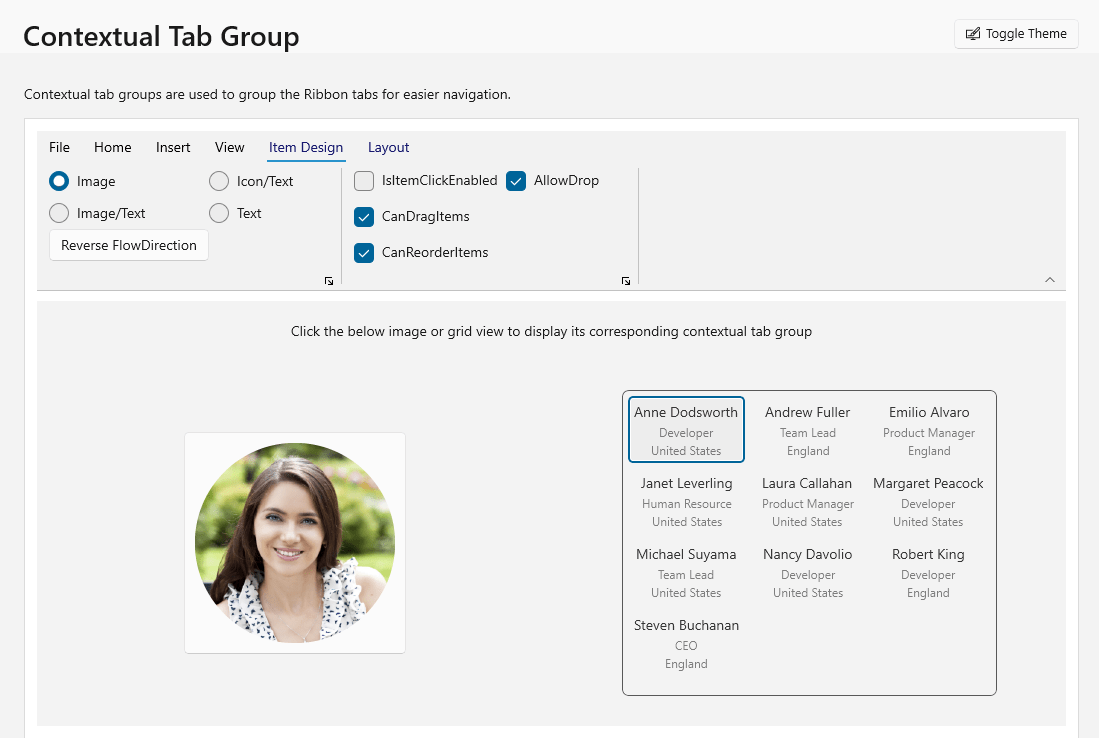
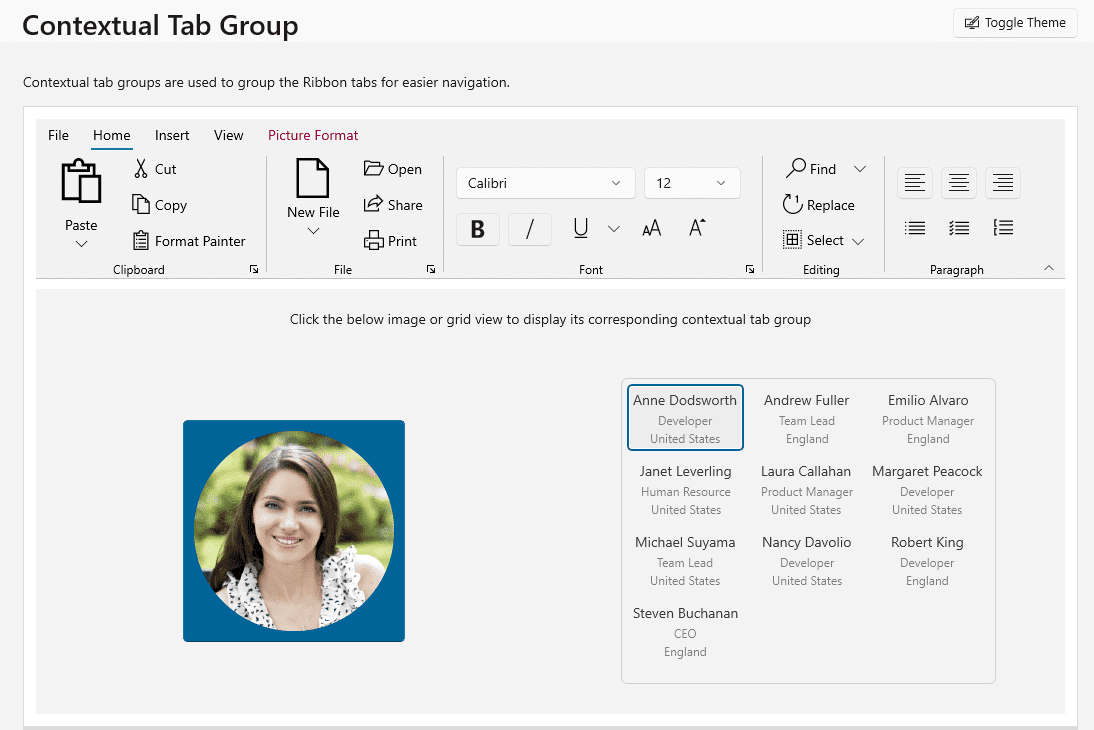
Review corrections and images updated.

diff --git a/winui/Ribbon/DealingWithRibbon.md b/winui/Ribbon/DealingWithRibbon.md
@@ -78,8 +78,7 @@ private void ribbon_SelectedTabChanged(object sender, SelectionChangedEventArgs 
 
 ##  Ribbon Contextual tab group
 
-Ribbon contextual tab groups are used to group the ribbon tabs for easier navigation. This contextual tab groups appear when a user enables their context. 
-The contextual tab groups are closed by default,to make them visible, use the `Visibility` property.Any number of contextual tab group can be added to the ribbon using the `ContextualTabGroups` property.
+Ribbon contextual tab groups are used to group the ribbon tabs for easier navigation. These contextual tab groups appear when a user enables their context. By default, these groups are collapsed, to make them visible use  `Visibility` property.  Any number of contextual tab groups can be added to the ribbon using the `ContextualTabGroups` property.
 
 {% tabs %}
 {% highlight xaml %}
@@ -89,13 +88,7 @@ The contextual tab groups are closed by default,to make them visible, use the `V
             <ribbon:RibbonContextualTabGroup.Tabs>
                 <ribbon:RibbonTab Header="Picture Format">
                     <ribbon:RibbonGroup Header="Image Stretch">
-                        <ribbon:RibbonItemHost>
-                            <ribbon:RibbonItemHost.ItemTemplate>
-                                <DataTemplate>
-                                    <Button Content="Fill"/>
-                                </DataTemplate>
-                            </ribbon:RibbonItemHost.ItemTemplate>
-                        </ribbon:RibbonItemHost>
+                       <ribbon:RibbonButton Content="Fill"/>
                     </ribbon:RibbonGroup>
                 </ribbon:RibbonTab>
             </ribbon:RibbonContextualTabGroup.Tabs>
@@ -106,14 +99,12 @@ The contextual tab groups are closed by default,to make them visible, use the `V
                 <ribbon:RibbonTab Header="Layout"/>
         </ribbon:RibbonContextualTabGroup>
  </ribbon:SfRibbon.ContextualTabGroups>
- <ToggleButton x:Name="ImageButton" 
-               Click="ImageButton_Click">
-               <Image Source="ms-appx:///Assets/Ribbon/Employees/Employee3.png"/>
+ <ToggleButton Click="ImageButton_Click">
+               <Image Source="ms-appx:///Assets/Image.png"/>
  </ToggleButton>
- <GridView x:Name="ContentGridView" 
-           ItemsSource="{Binding Employees}"
+ <GridView ItemsSource="{Binding Employees}"
            SelectedItem="{Binding SelectedEmployee, Mode=TwoWay}"
-           SelectionChanged="ContentGridView_SelectionChanged"/>
+           SelectionChanged="GridView_SelectionChanged"/>
 
 {% endhighlight %} 
 {% highlight c# %}
@@ -128,7 +119,7 @@ The contextual tab groups are closed by default,to make them visible, use the `V
             this.ImageOptions.Visibility = Visibility.Collapsed;
              this.TableOptions.Visibility = Visibility.Collapsed;
         }
-        private void ContentGridView_SelectionChanged(object sender, SelectionChangedEventArgs e)
+        private void GridView_SelectionChanged(object sender, SelectionChangedEventArgs e)
         {
             this.ImageOptions.Visibility = Visibility.Collapsed;
             this.TableOptions.Visibility = Visibility.Visible;
@@ -141,22 +132,24 @@ The contextual tab groups are closed by default,to make them visible, use the `V
 
 ##  Select first ribbon tab while group get selected
 
-The `SelectFirstTabOnVisible` property is set to true by default, which means that the first tab group of the contextual tab groups is selected. If you don't need to choose the first tab group, set the value to false.
+When the contextual tab group is visible, use the `SelectFirstTabOnVisible` property to select the first ribbon tab in the contextual tab group. If you don't need to choose the first ribbon tab, set the value to false.
 
 {% tabs %}
 {% highlight xaml %}
 
    <ribbon:SfRibbon.ContextualTabGroups>
-        <ribbon:RibbonContextualTabGroup x:Name="ImageOptions"
+        <ribbon:RibbonContextualTabGroup x:Name="TableOptions"
                                 SelectFirstTabOnVisible="True" >
             <ribbon:RibbonContextualTabGroup.Tabs>
-                <ribbon:RibbonTab Header="Picture Format"/>
+                <ribbon:RibbonTab Header="Item Design"/>
+                <ribbon:RibbonTab Header="Layout"/>
             </ribbon:RibbonContextualTabGroup.Tabs>
         </ribbon:RibbonContextualTabGroup>
         <ribbon:RibbonContextualTabGroup x:Name="TableOptions"
                                 SelectFirstTabOnVisible="False">
             <ribbon:RibbonContextualTabGroup.Tabs>
                 <ribbon:RibbonTab Header="Item Design"/>
+                <ribbon:RibbonTab Header="Layout"/>
         </ribbon:RibbonContextualTabGroup>
     </ribbon:SfRibbon.ContextualTabGroups>
 
@@ -175,13 +168,13 @@ SelectFirstTabOnVisible="False"
 
 ## Background
 
-The background color of tab groups can be changed using `Background` property.When you change the background of a contextual tab group, it reflected in all tab groups inside that group.
+The background color of tab groups can be applied using `Background` property. When you change the background of a contextual tab group, it is reflected in all Ribbon tabs inside that group.
 
 {% tabs %}
 {% highlight xaml %}
 
    <ribbon:SfRibbon.ContextualTabGroups>
-        <ribbon:RibbonContextualTabGroup x:Name="ImageOptions"
+        <ribbon:RibbonContextualTabGroup x:Name="TableOptions"
                                         Background="LightGray">
           <ribbon:RibbonContextualTabGroup.Tabs>
                 <ribbon:RibbonTab Header="Item Design"/>
@@ -197,18 +190,17 @@ The background color of tab groups can be changed using `Background` property.Wh
 
 ## Foreground
 
-The foreground color of tab groups can be changed using `Foreground` property.When you change the foreground of a contextual tab group, it reflected in all tab groups inside that group.
+The foreground color of tab groups can be applied using `Foreground` property. When you change the foreground of a contextual tab group, it is reflected in all tab groups inside that group.
 
 {% tabs %}
 {% highlight xaml %}
 
    <ribbon:SfRibbon.ContextualTabGroups>
-        <ribbon:RibbonContextualTabGroup x:Name="TableOptions"
+        <ribbon:RibbonContextualTabGroup x:Name="ImageOptions"
                                 SelectFirstTabOnVisible="True"  
-                                Foreground="MidnightBlue" >
+                                Foreground="#950245" >
             <ribbon:RibbonContextualTabGroup.Tabs>
-                <ribbon:RibbonTab Header="Item Design"/>
-                 <ribbon:RibbonTab Header="Layout"/>
+                <ribbon:RibbonTab Header="Picture Format"/>
             </ribbon:RibbonContextualTabGroup.Tabs>
         </ribbon:RibbonContextualTabGroup>
     </ribbon:SfRibbon.ContextualTabGroups>

diff --git a/winui/Ribbon/RibbonGallery.md b/winui/Ribbon/RibbonGallery.md
@@ -361,16 +361,14 @@ The image below shows how the RibbonGallery can be displayed in a Simplified mod
 
 ## Ribbon gallery preview
 
-The RibbonGallery preview feature is used to inspect the items before we select them. User can customize the preview support using `ItemPointerEnter` and `ItemPointerExit` events.
+The RibbonGallery preview feature is used to inspect the items before we select them. Users can activate and deactivate the preview support using `ItemPointerEnter` and `ItemPointerExit` events respectively.
 
 {% tabs %}
 {% highlight xaml %}
 
 
-<ribbon:RibbonGallery  x:Name="fontGallery" 
-                       ItemHeight="70"
+<ribbon:RibbonGallery  ItemHeight="70"
                        ItemWidth="100"
-                       MaxColumnCount="5"
                        SelectedItem="{x:Bind ribbongalitem}"
                        ItemPointerEnter="fontGallery_ItemPointerEnter"
                        ItemPointerExit="fontGallery_ItemPointerExit"
@@ -383,16 +381,16 @@ The RibbonGallery preview feature is used to inspect the items before we select 
 
 private void OnItemPointerEnter(object sender, RibbonRoutedEventArgs e)
 {
-    RibbonGalleryItem selecteditem = e.Source as RibbonGalleryItem;
-    if (selecteditem != null)
-    {
-        FontViewModel.FontSize = (selecteditem.Content as FontStyle).FontSize;
-        FontViewModel.FontWeight = (selecteditem.Content as FontStyle).FontWeight;
-    }
+   FontInfo selecteditem = (FontInfo)(e.Source as RibbonGalleryItem).Content;
+   if (selecteditem != null)
+   {
+      FontViewModel.FontSize = selecteditem.FontSize;
+      FontViewModel.FontWeight = selecteditem.FontWeight;
+   }
 }
 private void OnItemPointerExit(object sender, RibbonRoutedEventArgs e)
 {
-    FontStyle selecteditem = (FontStyle)(sender as RibbonGallery).SelectedItem;
+    FontInfo selecteditem = (FontInfo)(sender as RibbonGallery).SelectedItem;
     if (selecteditem != null)
     {
         FontViewModel.FontSize = selecteditem.FontSize;
